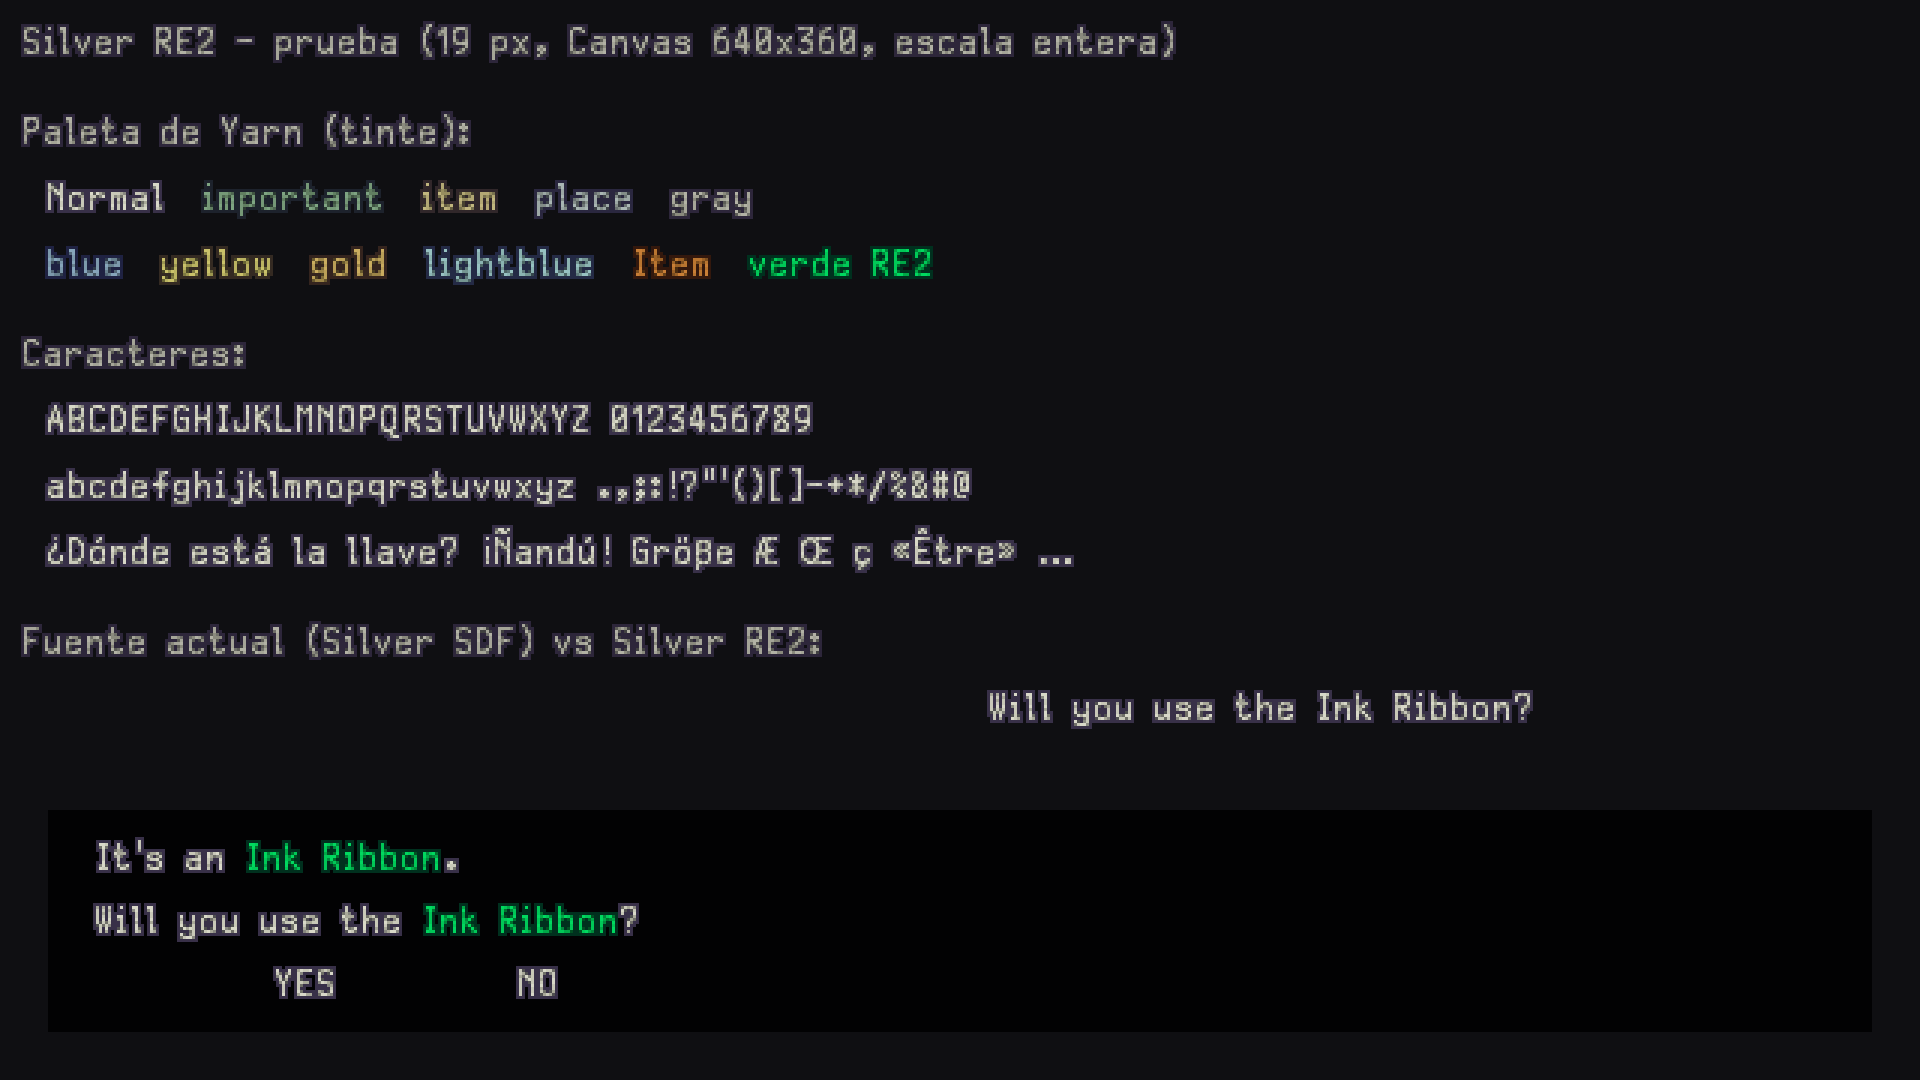
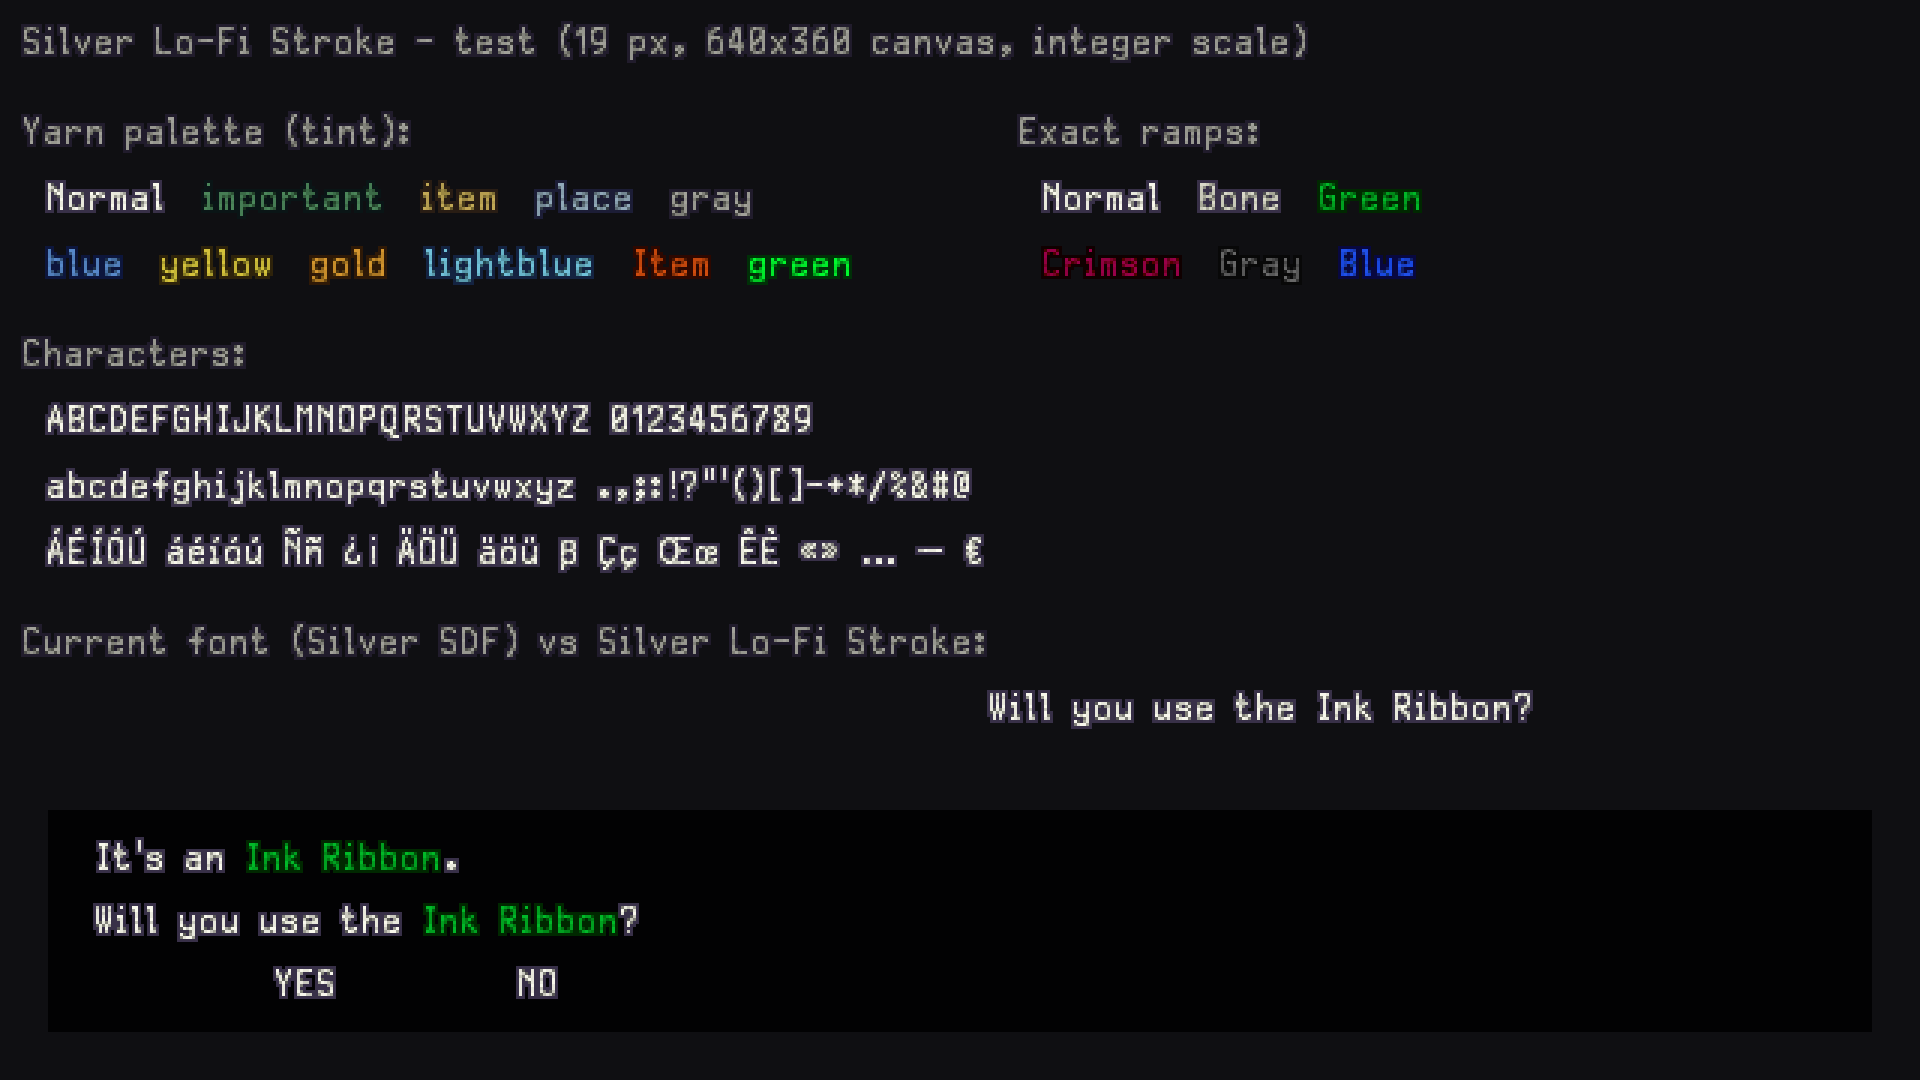
docs(design): document Lo-Fi Stroke exact ramps

diff --git a/Design/Prototypes/fuente-lofi-stroke/README.md b/Design/Prototypes/fuente-lofi-stroke/README.md
@@ -25,12 +25,29 @@ Origen de las reglas de capas y colores: [investigación de referencia](../../Re
 | Horneador | `Assets/Scripts/Editor/LoFiStrokeFontBaker.cs` → menú `CrimsonDraft/Fonts/Lo-Fi Stroke Baker` y `CrimsonDraft/Fonts/Bake Silver Lo-Fi Stroke` |
 | Font asset | `Assets/Resources/Fonts/Silver LoFi Stroke.asset` |
 | Escena de prueba | `Assets/Scenes/Test/FontLoFiStroke_Test.unity` |
+| Paleta de rampas exactas | `Assets/Art/UI/LoFiStroke/Silver LoFi Stroke Palette.asset` (+ su textura) → `LoFiStrokePalette.cs` / `LoFiStrokePaletteEditor.cs`, menú `CrimsonDraft/Fonts/Create Default Lo-Fi Stroke Palette` |
 
 - **Horneado:** TMP en modo RASTER a 19 px (tamaño nativo de Silver: 100 unidades = 1 píxel) y población estática. Cada glifo se convierte en mapa de índices (alfa = índice / 15) y se suma **1 px al avance** para que los contornos de letras vecinas no se fundan. Al volver a hornear se conserva el GUID.
-- **Shader:** busca cada índice en la rampa del material (`_Ramp1`…`_Ramp8`) y lo multiplica por el color del vértice (**tinte**). Las etiquetas `<color>` y la paleta de Yarn (`[item]`, `[place]`…) tiñen toda la rampa.
+- **Shader, rampas exactas:** si el color de la letra coincide con el **color clave** de una fila de la paleta, usa sus 8 tonos tal cual. La búsqueda se hace en el vértice, una vez por letra, comparando en espacio gamma con ±1,5/255 de tolerancia.
+- **Shader, tinte (respaldo):** si no hay clave, busca el índice en la rampa del material (`_Ramp1`…`_Ramp8`) y lo multiplica por el color. Cualquier `<color>` o marcador de Yarn (`[item]`, `[place]`…) tiñe toda la rampa.
 - **Uso:** tamaño 19 (o múltiplos) en Canvas con escala entera (640 × 360 → ×3 en 1080p), sin auto-tamaño, negrita sintética ni *Extra Padding*.
 
-Pendiente: **rampas exactas** (una tabla de paletas con color clave por fila, con el tinte como respaldo).
+### Rampas exactas
+
+Filas iniciales (la clave es el tono más claro de la rampa; el texto normal usa blanco):
+
+| Fila | Clave | Uso sugerido |
+|---|---|---|
+| Normal | `#FFFFFF` | Texto por defecto (sin etiqueta): blanco luminoso (248, 248, 236), contorno púrpura. También es la rampa base del tinte |
+| Bone | `#D8D8C8` | El blanco hueso original (216, 216, 200), más apagado |
+| Green | `#00B828` | Nombres de ítems |
+| Crimson | `#980048` | Peligro |
+| Gray | `#686868` | Texto apagado o no disponible |
+| Blue | `#2050E8` | Sistema |
+
+- Se editan en el inspector de la paleta. **Generate ramp from key** da un punto de partida, **Apply to materials** hornea la textura (9 × 16) y la asigna (y copia la fila Normal como rampa del tinte) y **Reset to defaults** restaura estas filas.
+- **Máximo 16 filas.** Dos claves no deben diferir en menos de 2/255 por canal; el inspector lo avisa.
+- Para que un marcador de Yarn use una rampa exacta, su color en `DialogueMarkupPalette` debe ser exactamente la clave.
 
 ## Imágenes
 
